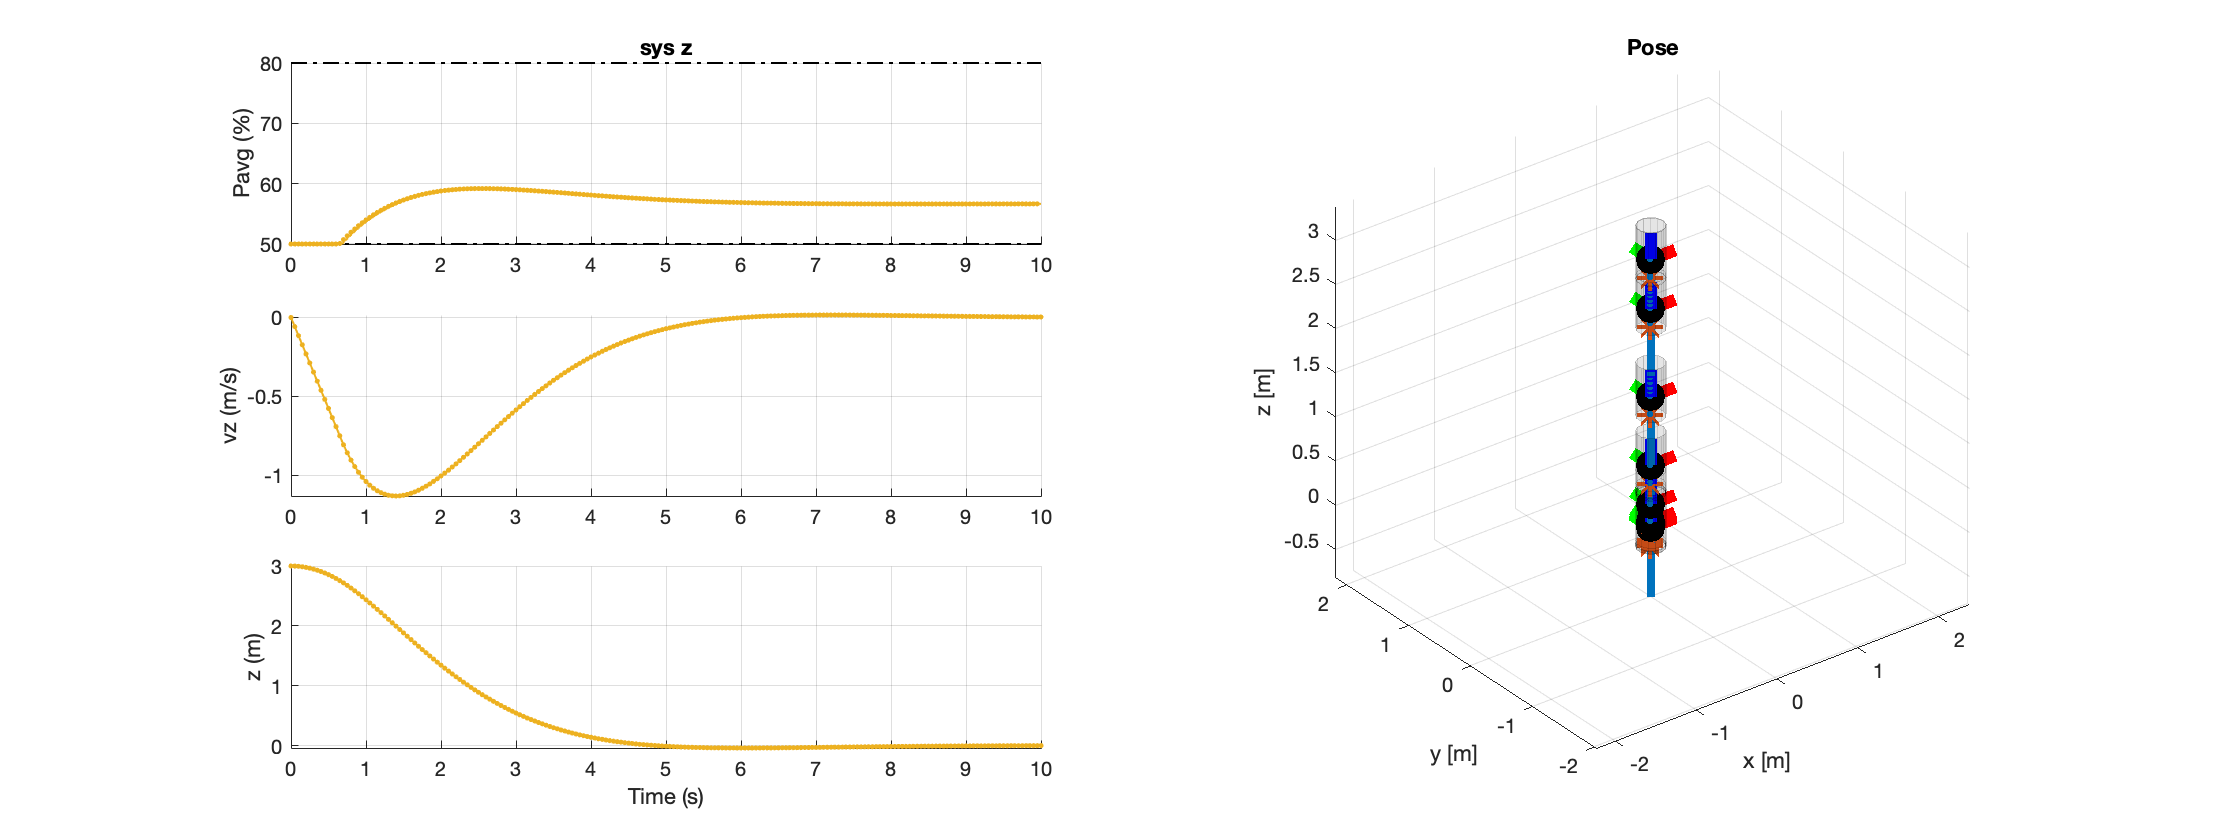
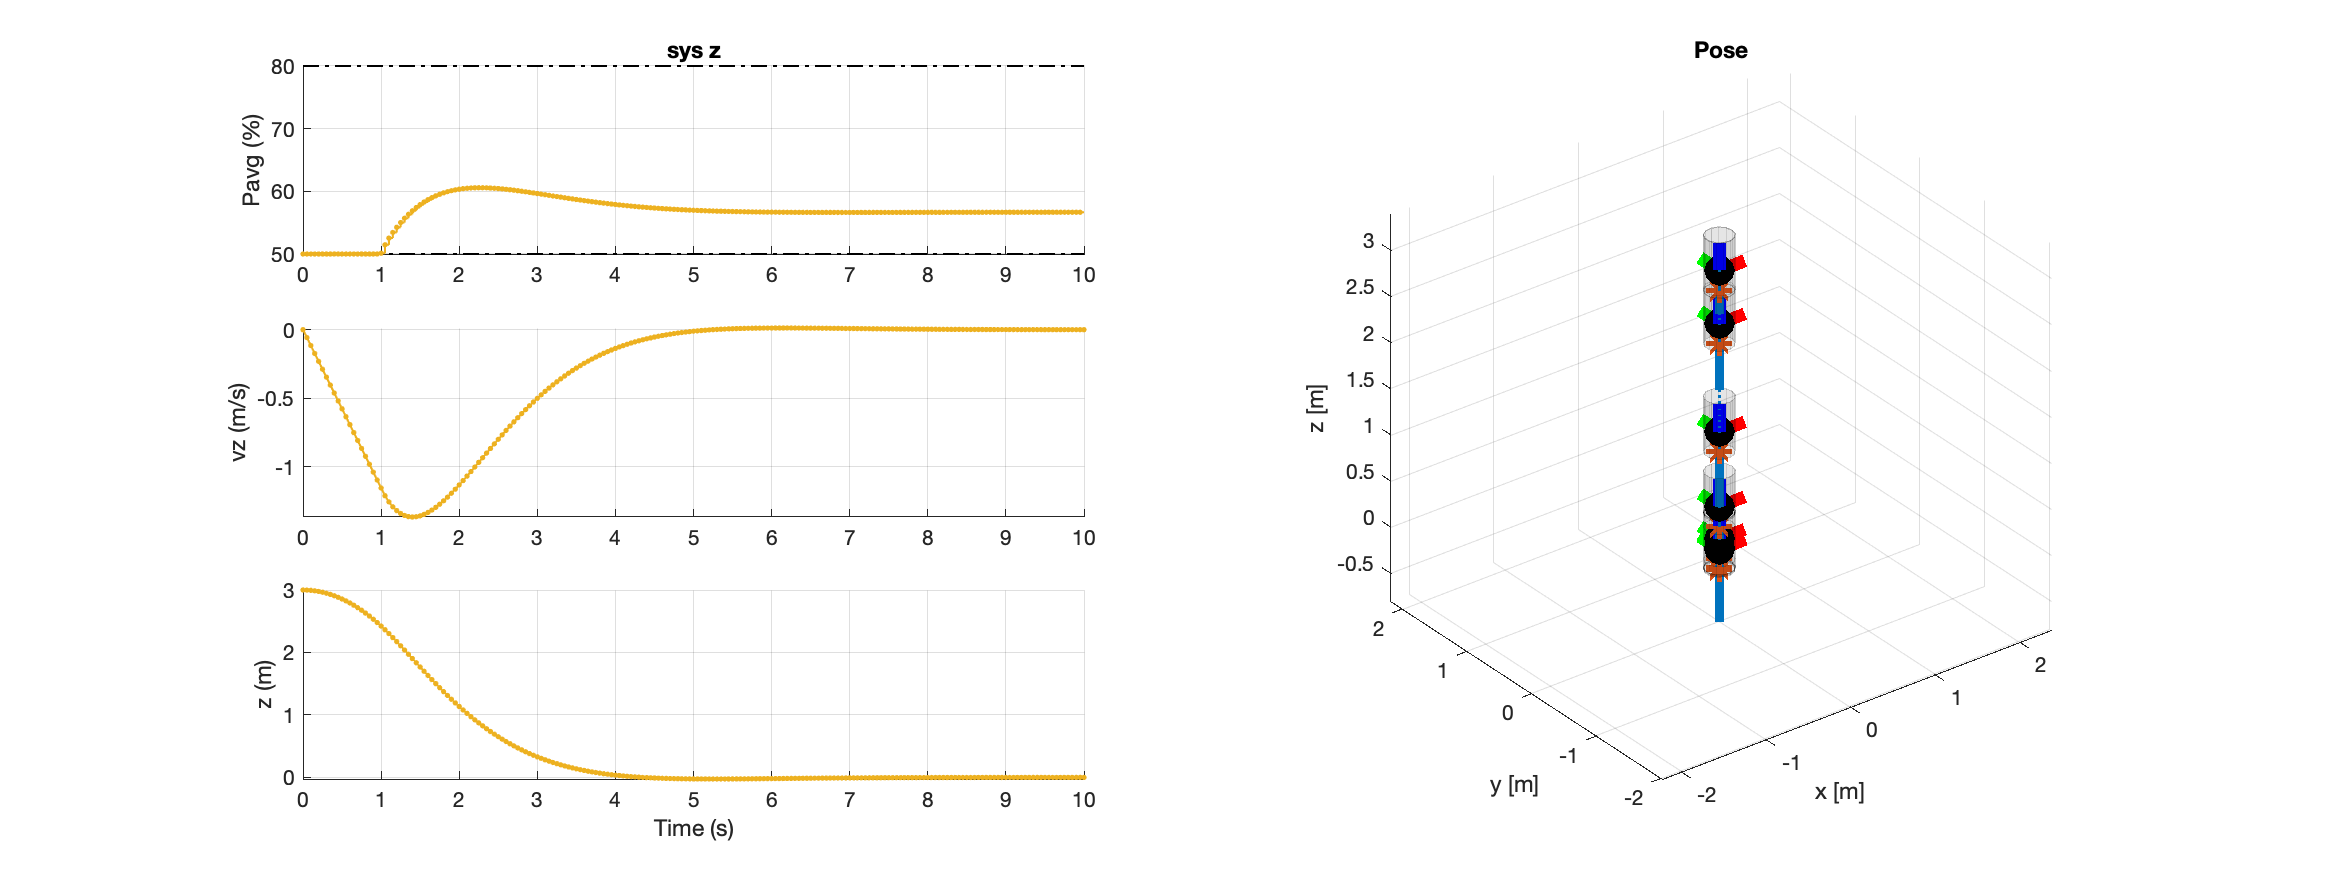
tuning changes for 3.1

diff --git a/Deliverable_3_1/Deliverable_3_1.m b/Deliverable_3_1/Deliverable_3_1.m
@@ -14,54 +14,62 @@ sys = rocket.linearize(xs, us);
 H = 10; % Horizon length in seconds mpc x = MpcControl x(sys x, Ts, H);
 Tf = 10; % seconds of simulation
 
-%x-component
-mpc_x = MpcControl_x(sys_x, Ts, H);
-x_x = [0,0,0,3].';
+%%%%%%%%%%%%%%%%%%%%%%%%% x-component %%%%%%%%%%%%%%%%%%%%%%%%%
+%mpc_x = MpcControl_x(sys_x, Ts, H);
+%x_x = [0,0,0,3].';
 
 
 %Open-Loop
-[u_x, T_opt, X_opt, U_opt] = mpc_x.get_u(x_x);
-U_opt(:,end+1) = NaN;
-ph = rocket.plotvis_sub(T_opt, X_opt, U_opt, sys_x, xs, us);
-saveas(gcf,'Open-loop x.png')
+%[u_x, T_opt, X_opt, U_opt] = mpc_x.get_u(x_x);
+%U_opt(:,end+1) = NaN;
+%ph = rocket.plotvis_sub(T_opt, X_opt, U_opt, sys_x, xs, us);
+%saveas(gcf,'Open-loop x.png')
+
 %Closed-Loop
+%[T, X_sub, U_sub] = rocket.simulate_f(sys_x, x_x, Tf, @mpc_x.get_u, 0);
+%ph = rocket.plotvis_sub(T, X_sub, U_sub, sys_x, xs, us);
+%saveas(gcf,'Closed-loop x.png')
 
-[T, X_sub, U_sub] = rocket.simulate_f(sys_x, x_x, Tf, @mpc_x.get_u, 0);
-ph = rocket.plotvis_sub(T, X_sub, U_sub, sys_x, xs, us);
-saveas(gcf,'Closed-loop x.png')
-%y-component
-mpc_y = MpcControl_y(sys_y, Ts, H);
-x_y = [0,0,0,3].';
 
-% Account for linearization point
+%%%%%%%%%%%%%%%%%%%%%%%%% y-component %%%%%%%%%%%%%%%%%%%%%%%%%
+
+%mpc_y = MpcControl_y(sys_y, Ts, H);
+%x_y = [0,0,0,3].';
 
 %Open-Loop
-[u_y, T_opt, X_opt, U_opt] = mpc_y.get_u(x_y);
-U_opt(:,end+1) = NaN;
-ph = rocket.plotvis_sub(T_opt, X_opt, U_opt, sys_y, xs, us);
-saveas(gcf,'Open-loop y.png')
+%[u_y, T_opt, X_opt, U_opt] = mpc_y.get_u(x_y);
+%U_opt(:,end+1) = NaN;
+%ph = rocket.plotvis_sub(T_opt, X_opt, U_opt, sys_y, xs, us);
+%saveas(gcf,'Open-loop y.png')
+
 %Closed-Loop
-[T, X_sub, U_sub] = rocket.simulate_f(sys_y, x_x, Tf, @mpc_y.get_u, 0);
-ph = rocket.plotvis_sub(T, X_sub, U_sub, sys_y, xs, us);
-saveas(gcf,'Closed-loop y.png')
-%z-component
+%[T, X_sub, U_sub] = rocket.simulate_f(sys_y, x_x, Tf, @mpc_y.get_u, 0);
+%ph = rocket.plotvis_sub(T, X_sub, U_sub, sys_y, xs, us);
+%saveas(gcf,'Closed-loop y.png')
+
+
+%%%%%%%%%%%%%%%%%%%%%%%%% z-component %%%%%%%%%%%%%%%%%%%%%%%%%
+
 z_z = [0;3];
 mpc_z = MpcControl_z(sys_z, Ts, H);
 [u_z, T_opt, X_opt, U_opt] = mpc_z.get_u(z_z);
 U_opt(:,end+1) = NaN;
-
+%Account for linearization
 U_opt = U_opt + us(3);
+
 %Open-Loop
 ph = rocket.plotvis_sub(T_opt, X_opt, U_opt, sys_z, xs, us);
+saveas(gcf,'Open-loop z.png')
 
 %Closed-Loop
 [T, X_sub, U_sub] = rocket.simulate_f(sys_z, z_z, Tf, @mpc_z.get_u, 0);
-ph = rocket.plotvis_sub(T_opt, X_opt, U_opt, sys_z, xs, us);
+ph = rocket.plotvis_sub(T, X_sub, U_sub, sys_z, xs, us);
+saveas(gcf,'Closed-loop z.png')
 
 
 
+%%%%%%%%%%%%%%%%%%%%%%%%% roll-component %%%%%%%%%%%%%%%%%%%%%%%%%
 
-%roll-component
 roll_roll = [0;deg2rad(30)];
 mpc_roll = MpcControl_roll(sys_roll, Ts, H);
 [u_i, T_opt, X_opt, U_opt] = mpc_roll.get_u(roll_roll);
@@ -69,9 +77,11 @@ U_opt(:,end+1) = NaN;
 
 %Open-Loop
 ph = rocket.plotvis_sub(T_opt, X_opt, U_opt, sys_roll, xs, us);
+saveas(gcf,'Open-loop roll.png')
 
 %Closed-Loop
 [T, X_sub, U_sub] = rocket.simulate_f(sys_roll, roll_roll, Tf, @mpc_roll.get_u, 0);
-ph = rocket.plotvis_sub(T_opt, X_opt, U_opt, sys_roll, xs, us);
+ph = rocket.plotvis_sub(T, X_sub, U_sub, sys_roll, xs, us);
+saveas(gcf,'Closed-loop roll.png')
 
 

diff --git a/Deliverable_3_1/MpcControl_z.m b/Deliverable_3_1/MpcControl_z.m
@@ -28,7 +28,6 @@ classdef MpcControl_z < MpcControlBase
             N = N_segs + 1;      % Last index in 1-based Matlab indexing
             
             [nx, nu] = size(mpc.B);
-            disp(nu);
             
             % Targets (Ignore this before Todo 3.3)
             x_ref = sdpvar(nx, 1);
@@ -53,8 +52,8 @@ classdef MpcControl_z < MpcControlBase
 
             %YALMIP
             %Cost matrices 
-            Q = 1*eye(nx); Q(1,1) = 25; Q(2,2) = 35;
-            R = 1.5*eye(nu); 
+            Q = 1*eye(nx); Q(1,1) = 30; Q(2,2) = 25;
+            R = 0.1*eye(nu); 
 
             %Input constraints for Pavg
             M = [1;-1];
@@ -89,7 +88,7 @@ classdef MpcControl_z < MpcControlBase
             ylabel('State 2 : z [m]');
             title('Maximum Invariant Set for z');
             legend('Invariant Set for z');
-            
+            saveas(gcf,'Terminal Set z.png')
             %System dynamics
            
             con = (X(:, 2) == mpc.A * X(:, 1) + mpc.B*U(:,1)) + (M*U(:,1)<= m);
